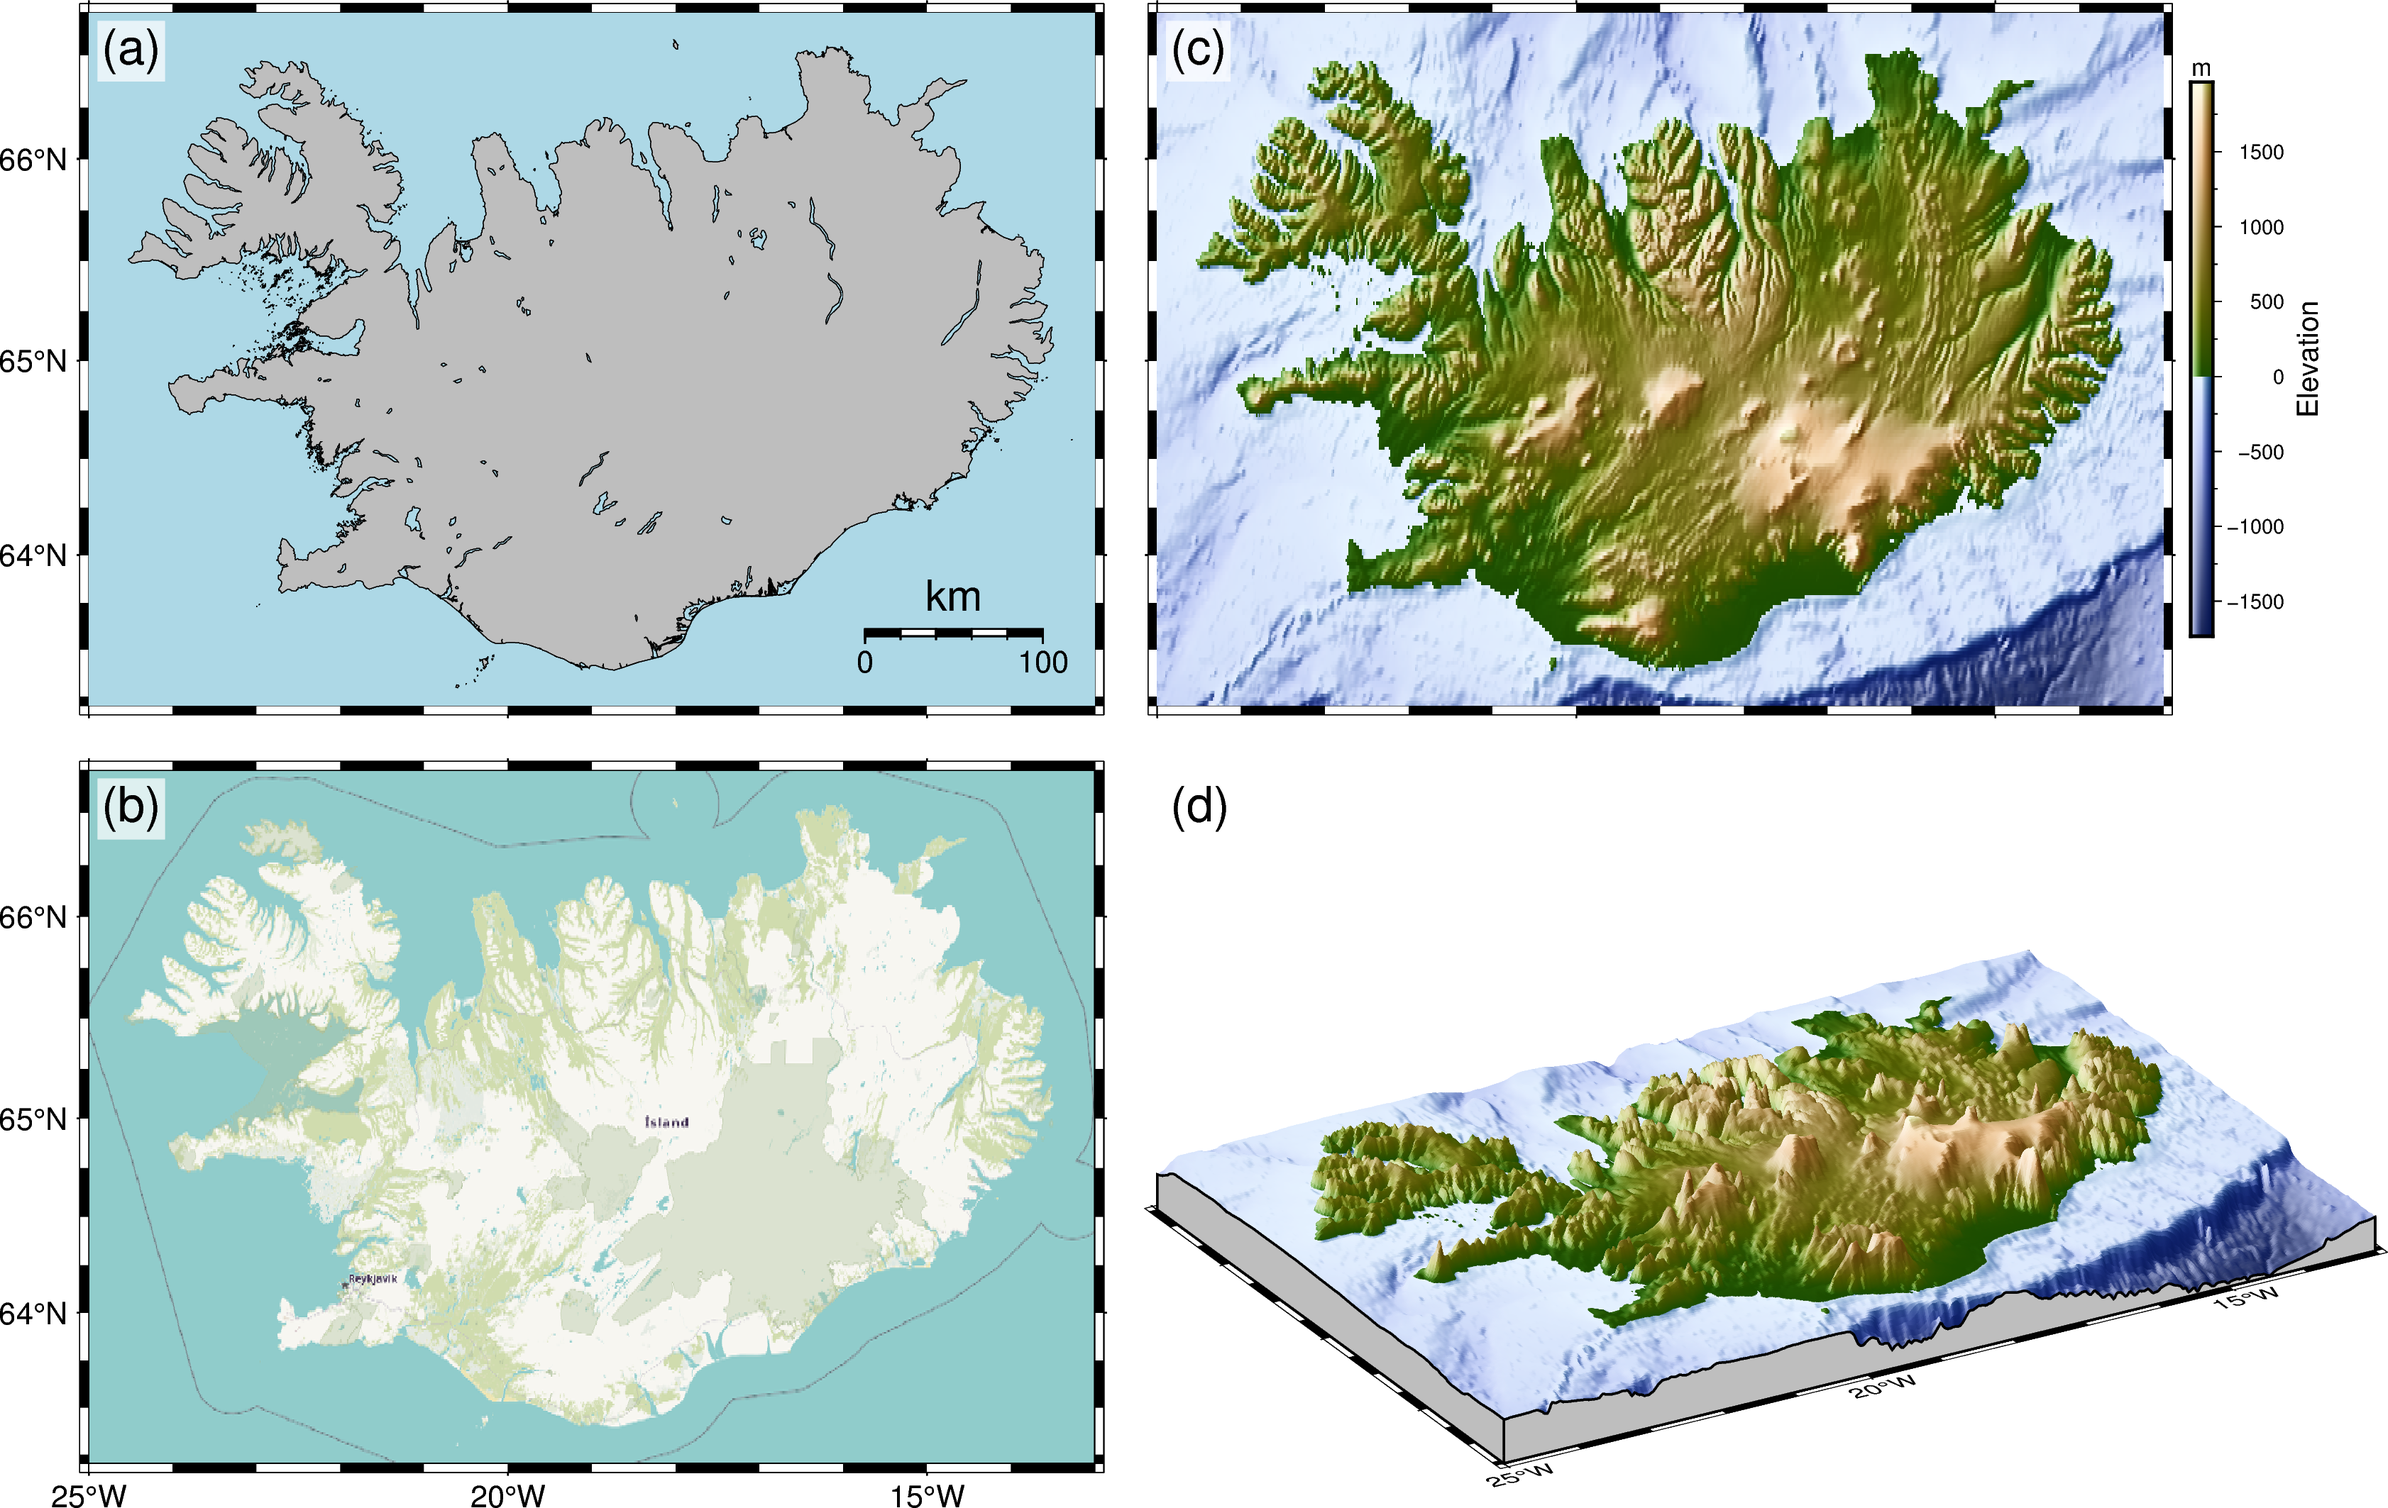
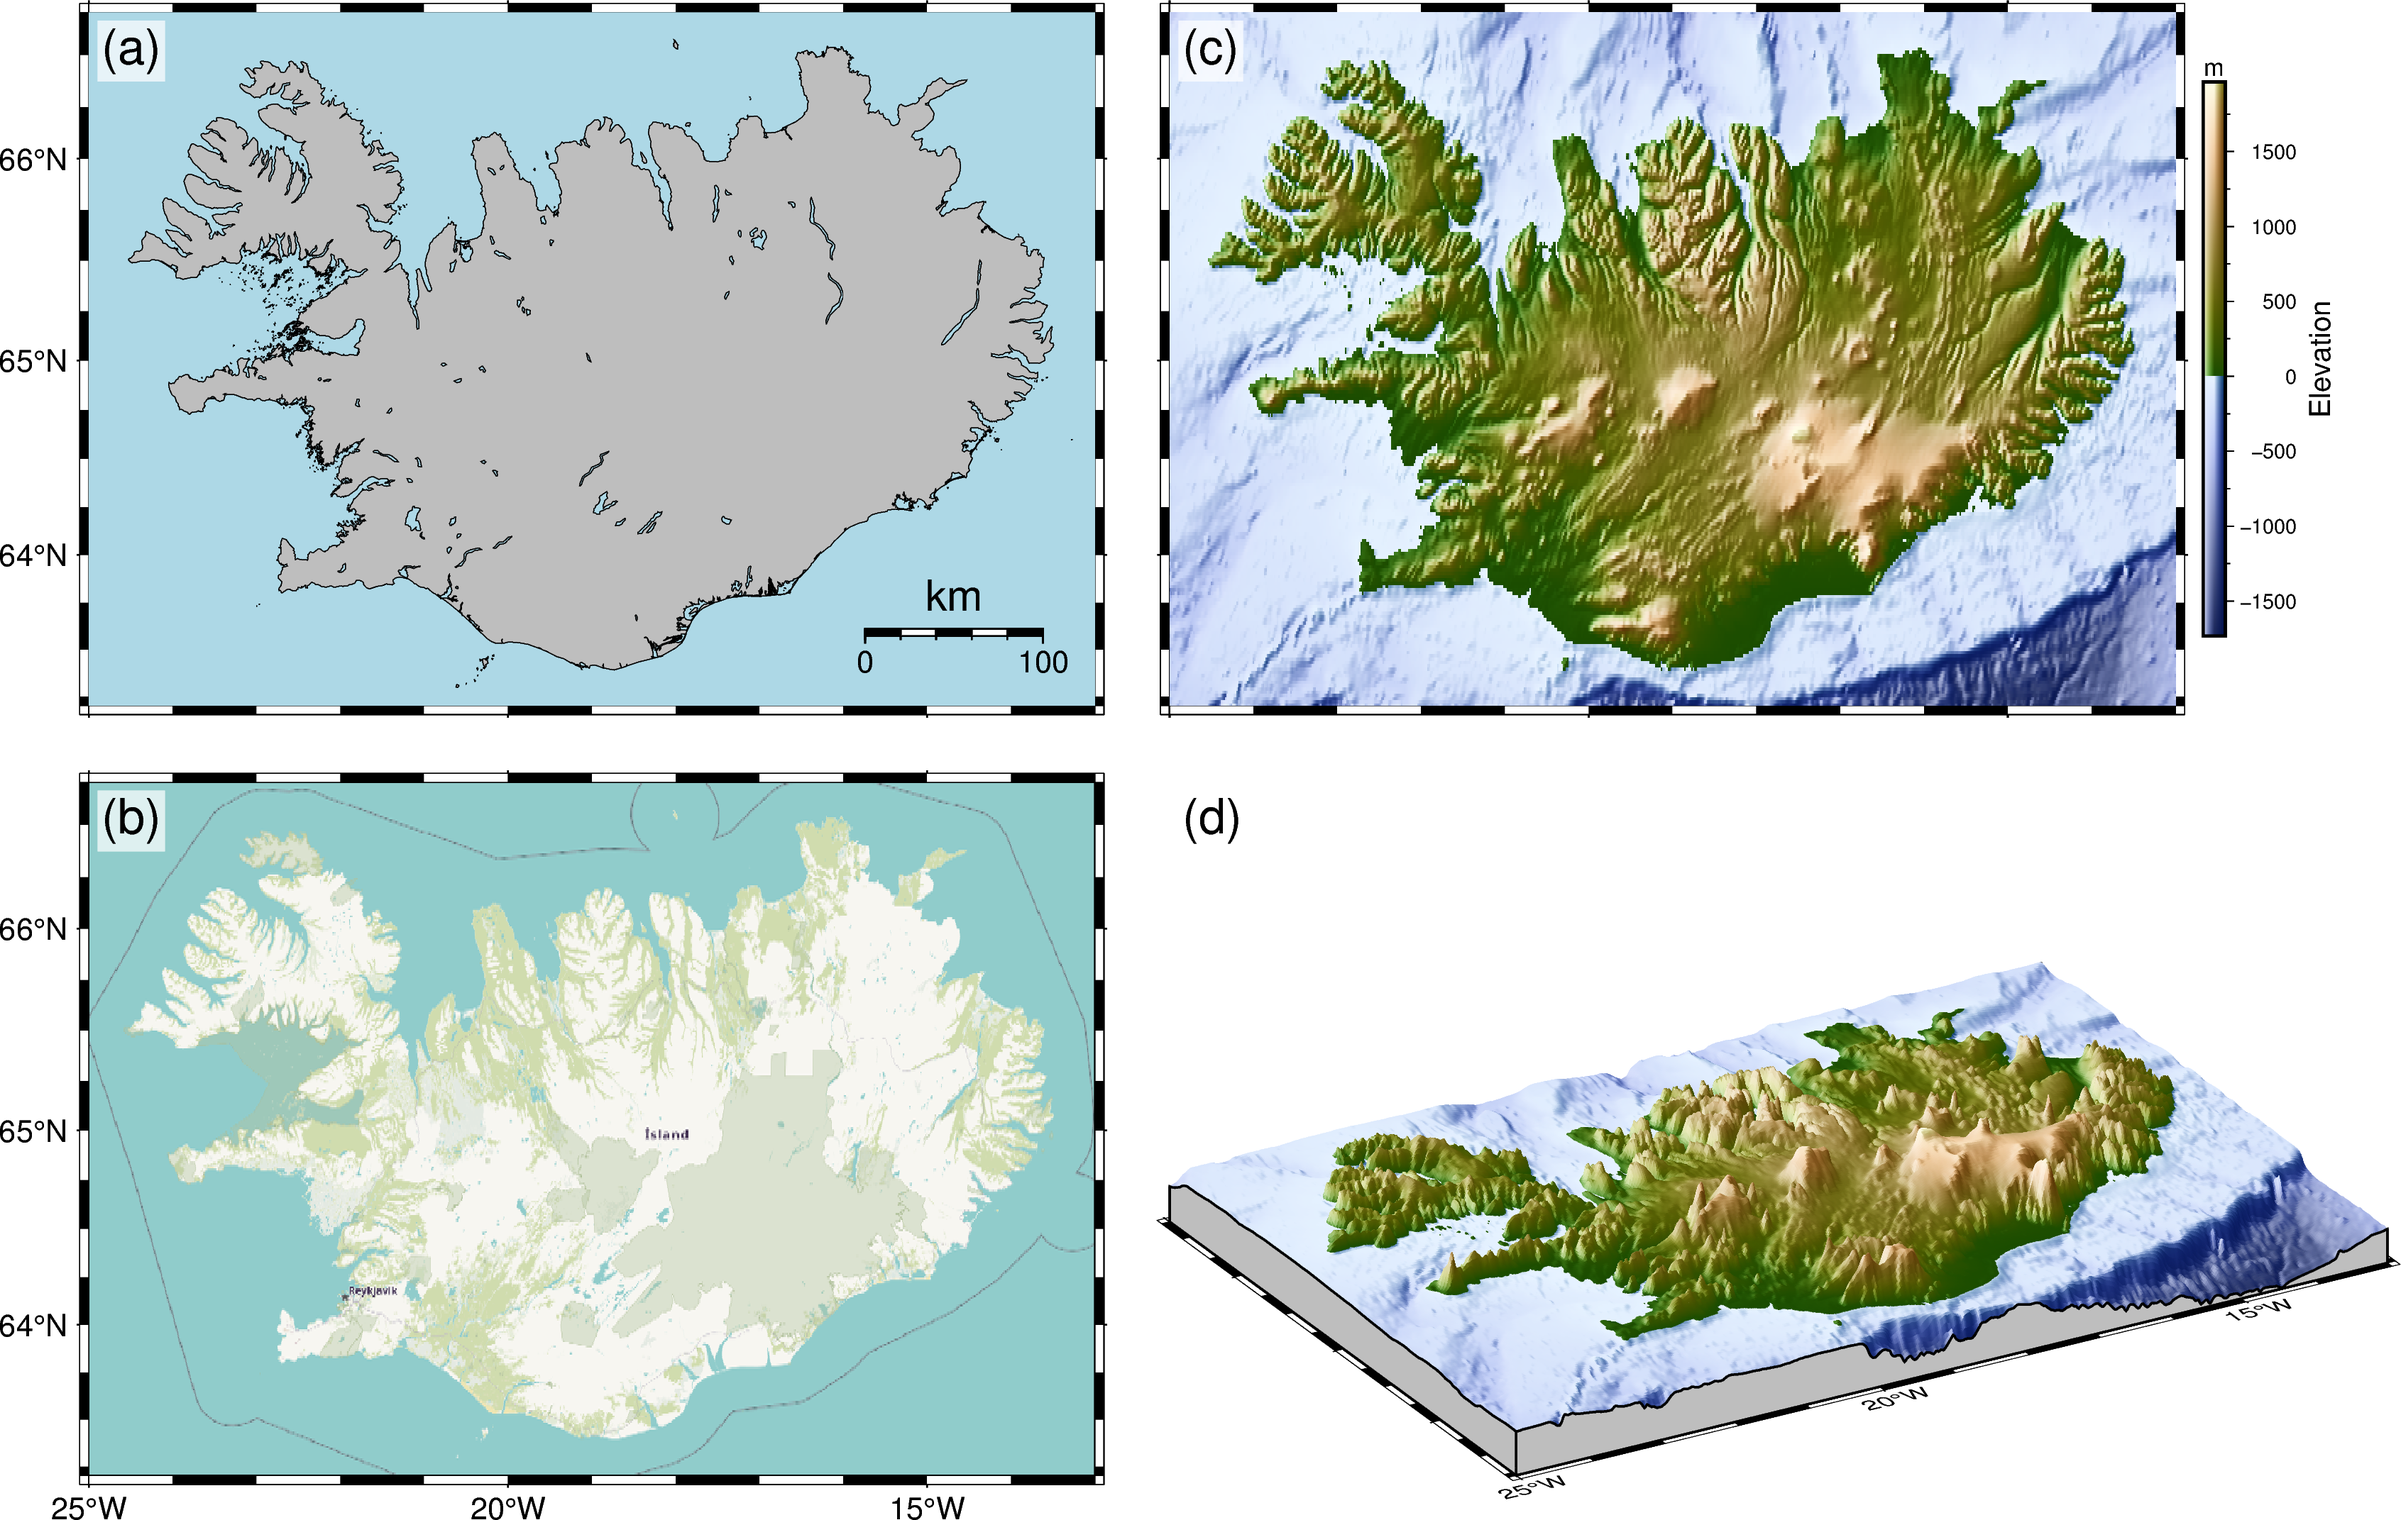
Update output figure

diff --git a/Fig3_PyGMT_backgrounds.py b/Fig3_PyGMT_backgrounds.py
@@ -9,7 +9,7 @@ with fig.subplot(
     subsize=("12c", "8.5c"),
     autolabel="(a)+o0.15c/0.3c+gwhite@30+v",
     margins=("0.3c", "0.2c"),
-    frame="WSrt",
+    frame="WSen",
     sharex="b",
     sharey="l",
 ):
